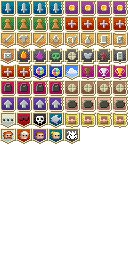
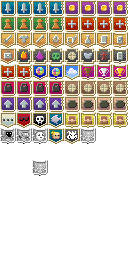
1.2.1: added abyssal boss badges

Changed region(s): [[0.0, 0.5, 0.375, 0.5625], [0.625, 0.5, 0.75, 0.5625], [0.25, 0.625, 0.375, 0.6875]]

diff --git a/core/src/main/java/com/shatteredpixel/shatteredpixeldungeon/Badges.java b/core/src/main/java/com/shatteredpixel/shatteredpixeldungeon/Badges.java
@@ -136,9 +136,14 @@ public class Badges {
 		GAMES_PLAYED_1( 60, true ),
 		GAMES_PLAYED_2( 61, true ),
 		GAMES_PLAYED_3( 62, true ),
-		GAMES_PLAYED_4( 63, true );
+		GAMES_PLAYED_4( 63, true ),
+		NIGHTMARE_SLAIN(64, true, true),
+		DRAGON_SLAIN(65, true, true),
+		SPIRIT_SLAIN(66, true, true),
+		;
 
 		public boolean meta;
+		public boolean abyss = false;
 
 		public int image;
 		
@@ -149,6 +154,12 @@ public class Badges {
 		Badge( int image, boolean meta ) {
 			this.image = image;
 			this.meta = meta;
+		}
+
+		Badge(int image, boolean meta, boolean abyssal){
+			this.image = image;
+			this.meta = meta;
+			this.abyss = abyssal;
 		}
 
 		public String desc(){
@@ -778,6 +789,30 @@ public class Badges {
 		}
 		
 		displayBadge( badge );
+	}
+
+	public static void validateNightmare(){
+		if (!local.contains( Badge.NIGHTMARE_SLAIN )) {
+			Badge badge = Badge.NIGHTMARE_SLAIN;
+			local.add( badge );
+			displayBadge( badge );
+		}
+	}
+
+	public static void validateDragon(){
+		if (!local.contains( Badge.DRAGON_SLAIN )) {
+			Badge badge = Badge.DRAGON_SLAIN;
+			local.add( badge );
+			displayBadge( badge );
+		}
+	}
+
+	public static void validateSpirit(){
+		if (!local.contains( Badge.SPIRIT_SLAIN )) {
+			Badge badge = Badge.SPIRIT_SLAIN;
+			local.add( badge );
+			displayBadge( badge );
+		}
 	}
 	
 	//necessary in order to display the happy end badge in the surface scene

diff --git a/core/src/main/java/com/shatteredpixel/shatteredpixeldungeon/actors/mobs/Dragon.java b/core/src/main/java/com/shatteredpixel/shatteredpixeldungeon/actors/mobs/Dragon.java
@@ -25,6 +25,7 @@
 package com.shatteredpixel.shatteredpixeldungeon.actors.mobs;
 
 import com.shatteredpixel.shatteredpixeldungeon.Assets;
+import com.shatteredpixel.shatteredpixeldungeon.Badges;
 import com.shatteredpixel.shatteredpixeldungeon.Dungeon;
 import com.shatteredpixel.shatteredpixeldungeon.actors.Actor;
 import com.shatteredpixel.shatteredpixeldungeon.actors.Char;
@@ -99,6 +100,13 @@ public class Dragon extends AbyssalMob {
             RingOfWealth.showFlareForBonusDrop(sprite);
         }
         return null;
+    }
+
+    @Override
+    public void die(Object cause) {
+        super.die(cause);
+
+        Badges.validateDragon();
     }
 
     @Override

diff --git a/core/src/main/java/com/shatteredpixel/shatteredpixeldungeon/actors/mobs/LostSpirit.java b/core/src/main/java/com/shatteredpixel/shatteredpixeldungeon/actors/mobs/LostSpirit.java
@@ -24,6 +24,7 @@
 
 package com.shatteredpixel.shatteredpixeldungeon.actors.mobs;
 
+import com.shatteredpixel.shatteredpixeldungeon.Badges;
 import com.shatteredpixel.shatteredpixeldungeon.Dungeon;
 import com.shatteredpixel.shatteredpixeldungeon.actors.Actor;
 import com.shatteredpixel.shatteredpixeldungeon.actors.Char;
@@ -98,6 +99,13 @@ public class LostSpirit extends AbyssalMob implements Callback {
                 return true;
             }
         }
+    }
+
+    @Override
+    public void die(Object cause) {
+        super.die(cause);
+
+        Badges.validateSpirit();
     }
 
     private void zap() {

diff --git a/core/src/main/java/com/shatteredpixel/shatteredpixeldungeon/actors/mobs/AbyssalNightmare.java b/core/src/main/java/com/shatteredpixel/shatteredpixeldungeon/actors/mobs/AbyssalNightmare.java
@@ -24,6 +24,7 @@
 
 package com.shatteredpixel.shatteredpixeldungeon.actors.mobs;
 
+import com.shatteredpixel.shatteredpixeldungeon.Badges;
 import com.shatteredpixel.shatteredpixeldungeon.Dungeon;
 import com.shatteredpixel.shatteredpixeldungeon.actors.Actor;
 import com.shatteredpixel.shatteredpixeldungeon.actors.Char;
@@ -148,6 +149,13 @@ public class AbyssalNightmare extends AbyssalMob {
 	@Override
 	public int attackSkill( Char target ) {
 		return 70 + abyssLevel()*3;
+	}
+
+	@Override
+	public void die(Object cause) {
+		super.die(cause);
+
+		Badges.validateNightmare();
 	}
 
 	@Override

diff --git a/core/src/main/java/com/shatteredpixel/shatteredpixeldungeon/ui/BadgesGrid.java b/core/src/main/java/com/shatteredpixel/shatteredpixeldungeon/ui/BadgesGrid.java
@@ -62,7 +62,8 @@ public class BadgesGrid extends Component {
 			ArrayList<Badges.Badge> lockedBadges = new ArrayList<>();
 			for (Badges.Badge badge : Badges.Badge.values()) {
 				if (badge.image != -1 && !Badges.isUnlocked(badge)) {
-					lockedBadges.add(badge);
+					if (!badge.abyss)
+						lockedBadges.add(badge);
 				}
 			}
 			Badges.filterHigherIncrementalBadges(lockedBadges);
